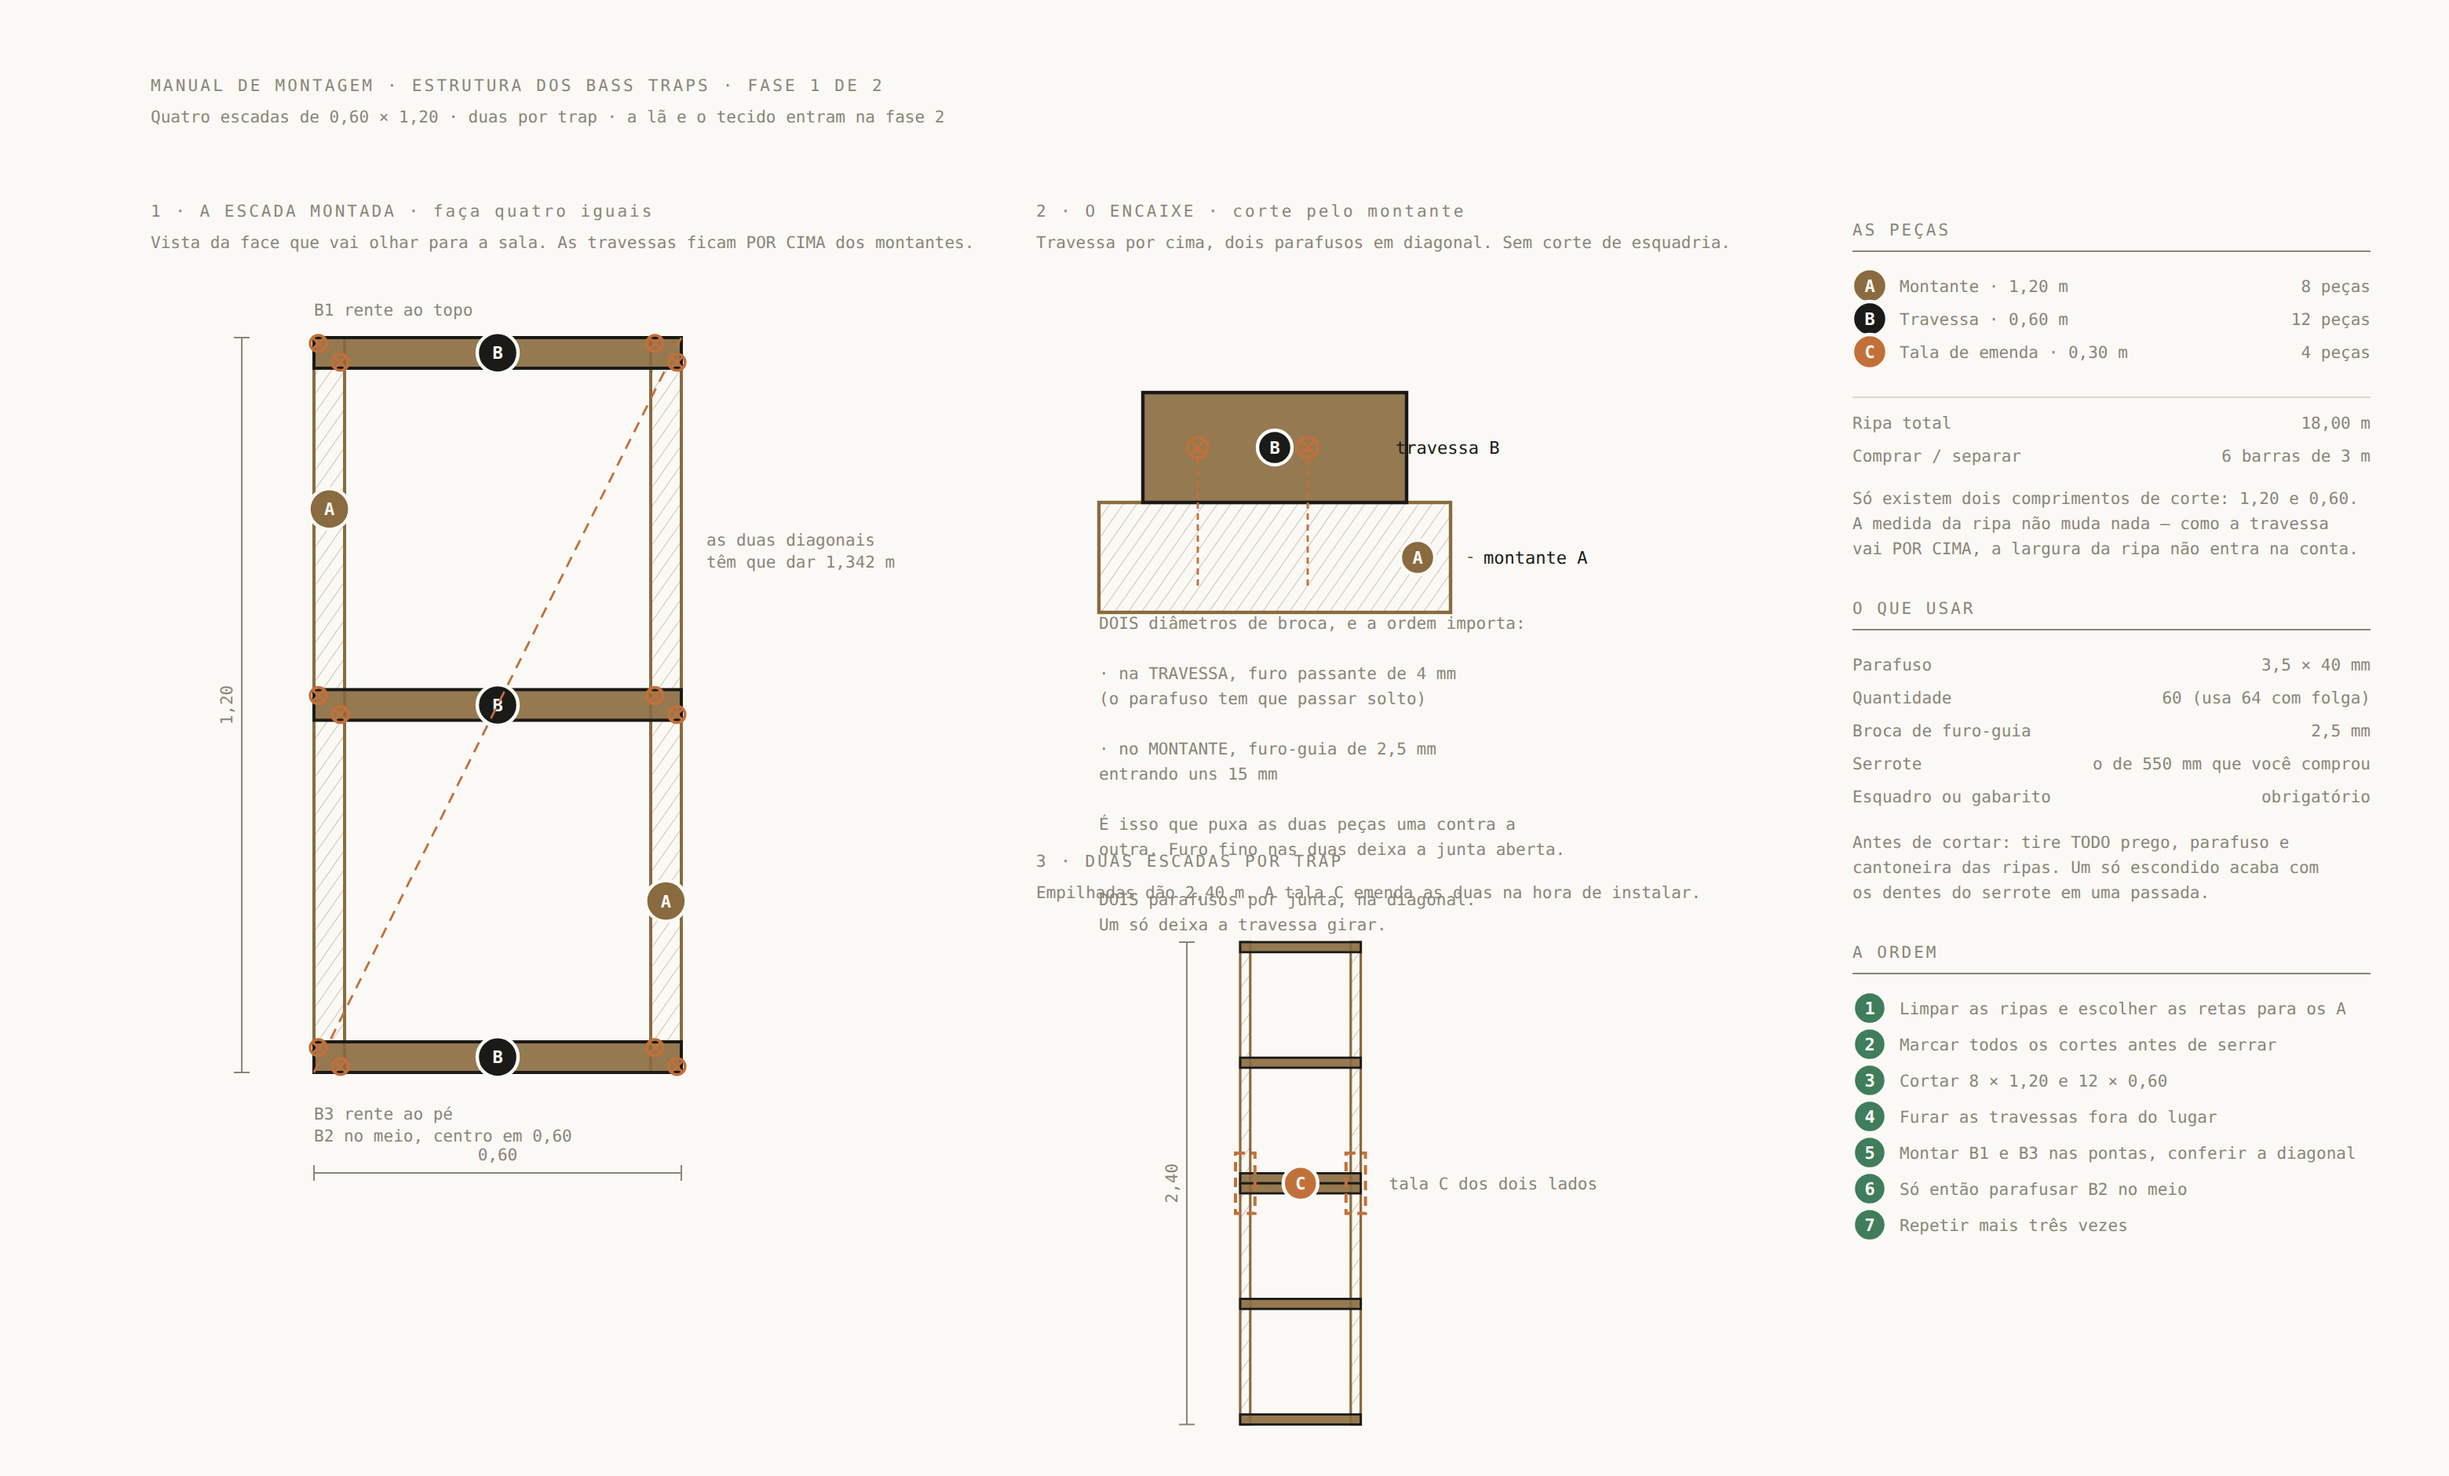
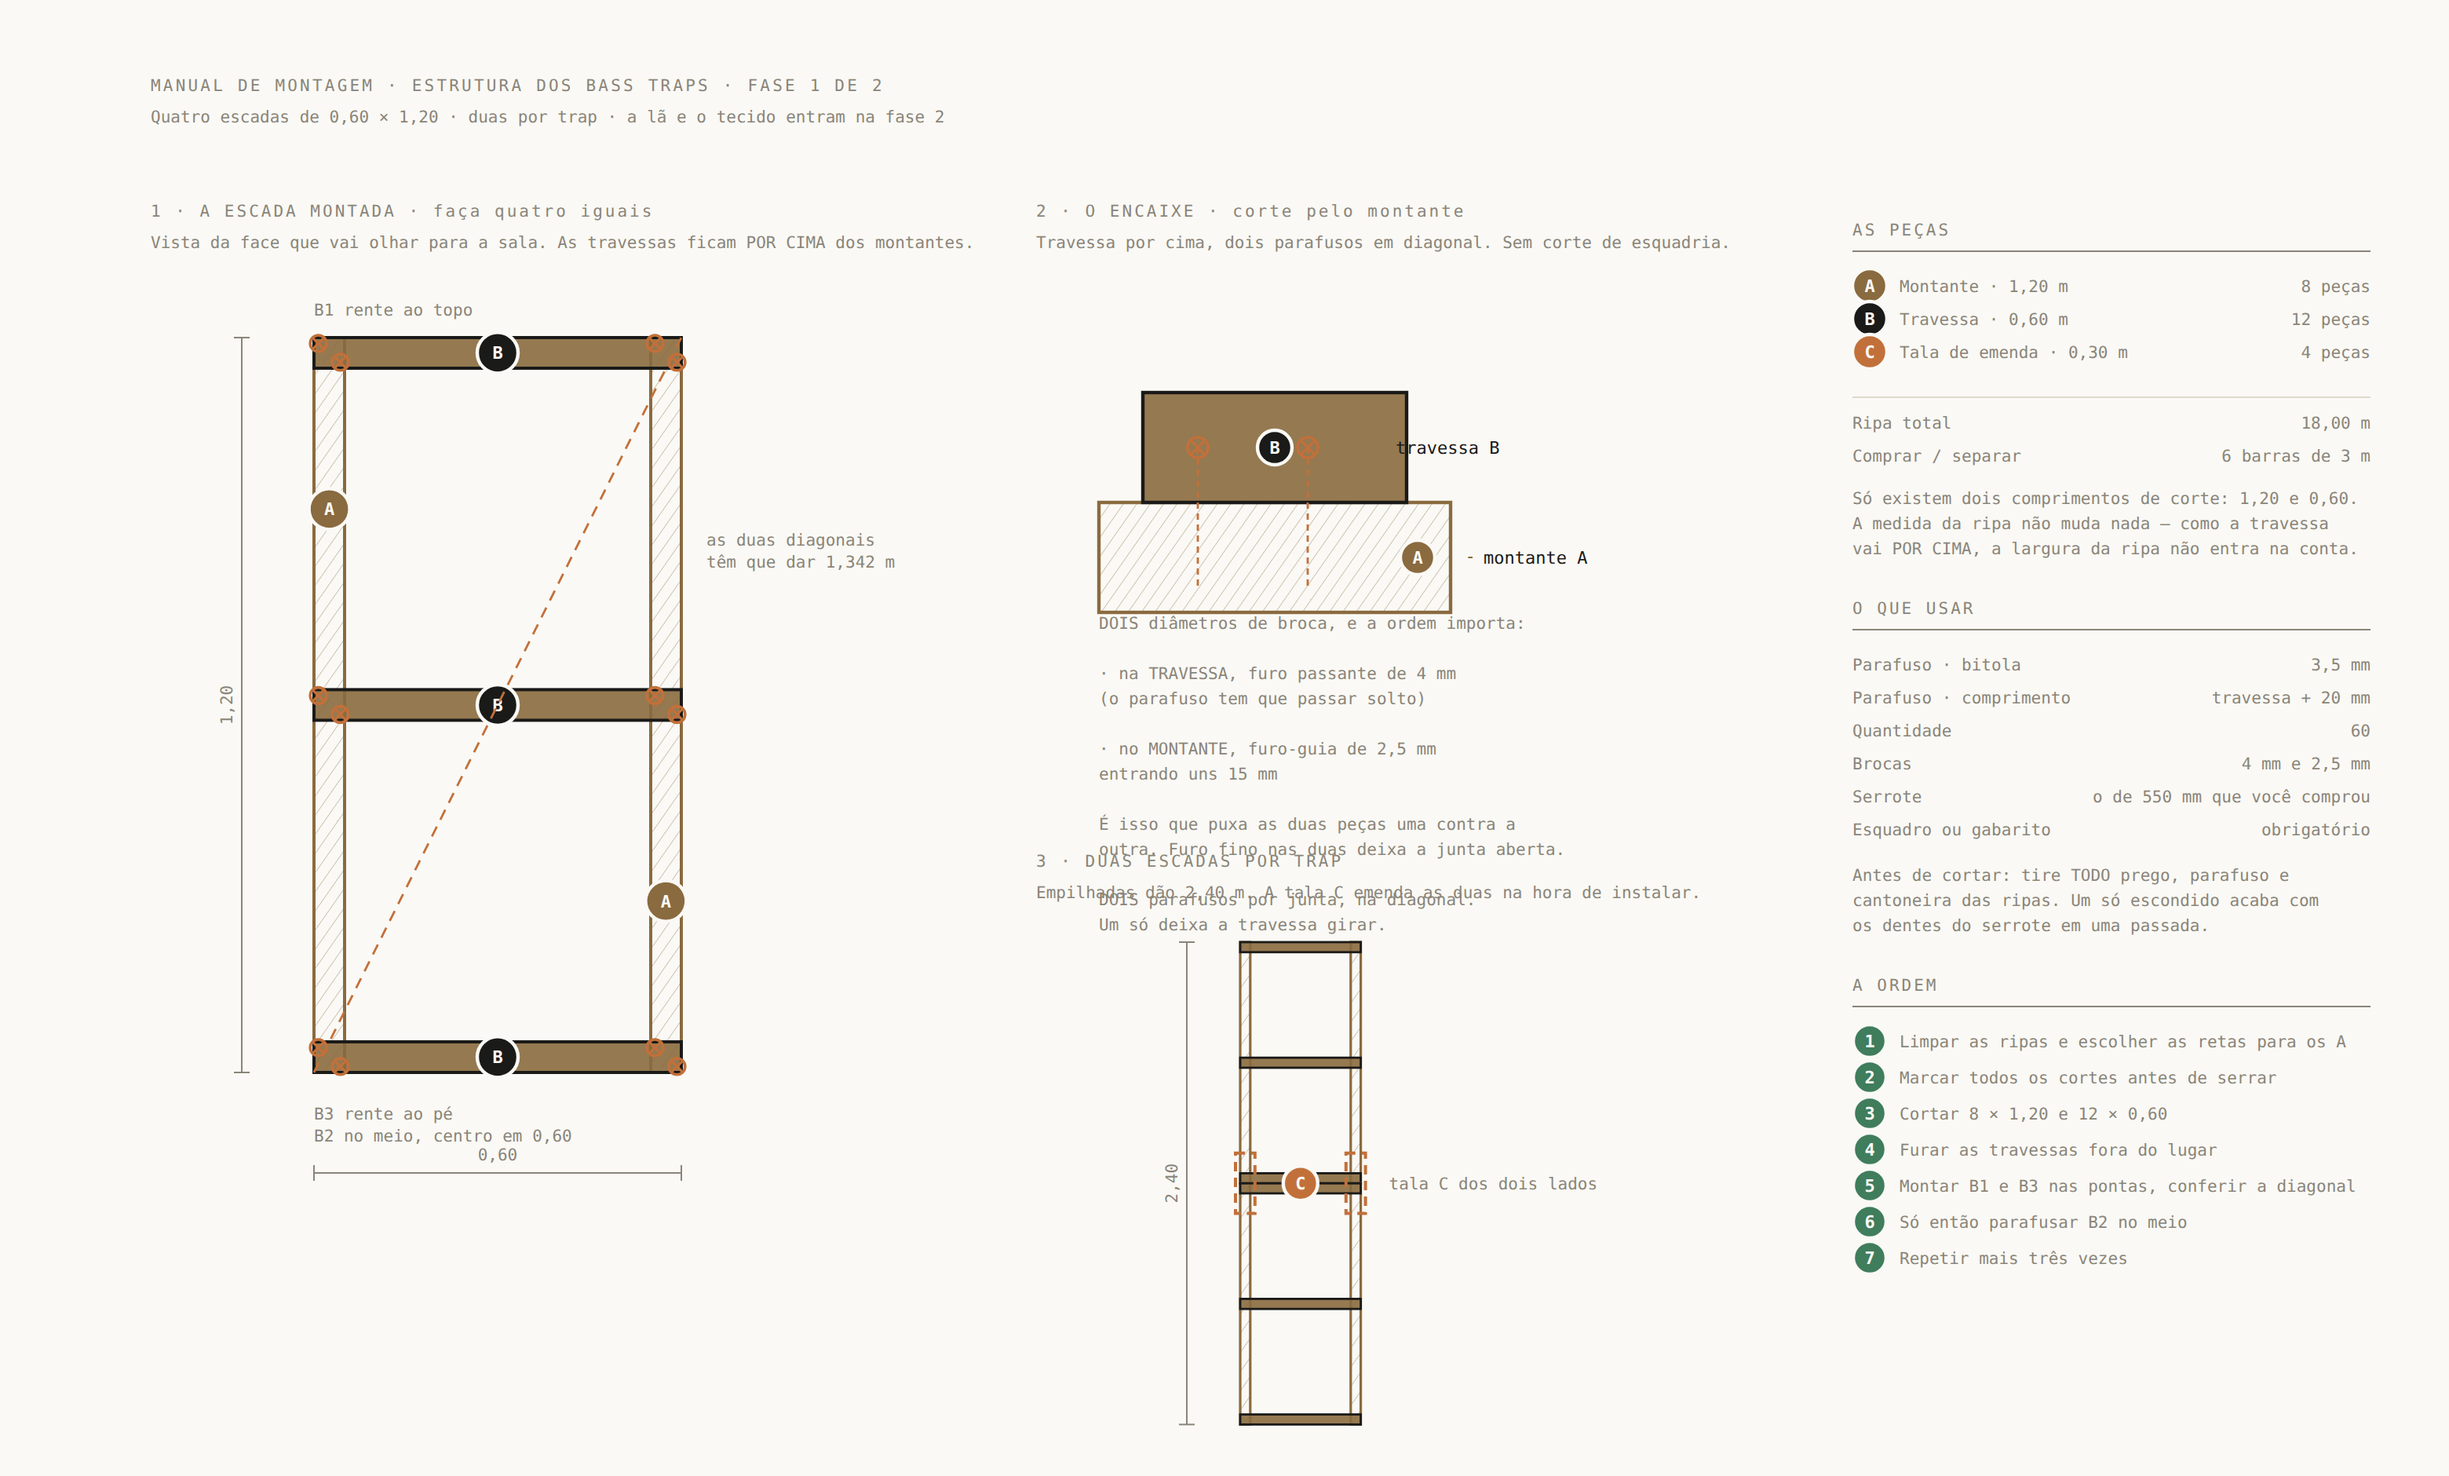
home-studio: regra do comprimento do parafuso no manual
Claude-Session: https://claude.ai/code/session_0147x86ewCztaogts4MPfXdV

Changed region(s): [[0.7462, 0.4628, 0.9638, 0.8638]]

diff --git a/home-studio/montagem-escada.py b/home-studio/montagem-escada.py
@@ -116,9 +116,9 @@ for l in ["S&#243; existem dois comprimentos de corte: 1,20 e 0,60.","A medida d
     txt(LX,yy,l,"s-dimt","start"); yy+=16
 yy+=22
 head("O QUE USAR","var(--flag)")
-for k,v in [("Parafuso","3,5 &#215; 40 mm"),("Quantidade","60 (usa 64 com folga)"),
-            ("Broca de furo-guia","2,5 mm"),("Serrote","o de 550 mm que voc&#234; comprou"),
-            ("Esquadro ou gabarito","obrigat&#243;rio")]:
+for k,v in [("Parafuso &#183; bitola","3,5 mm"),("Parafuso &#183; comprimento","travessa + 20 mm"),
+            ("Quantidade","60"),("Brocas","4 mm e 2,5 mm"),
+            ("Serrote","o de 550 mm que voc&#234; comprou"),("Esquadro ou gabarito","obrigat&#243;rio")]:
     row(k,v)
 yy+=8
 for l in ["Antes de cortar: tire TODO prego, parafuso e","cantoneira das ripas. Um s&#243; escondido acaba com","os dentes do serrote em uma passada."]:
